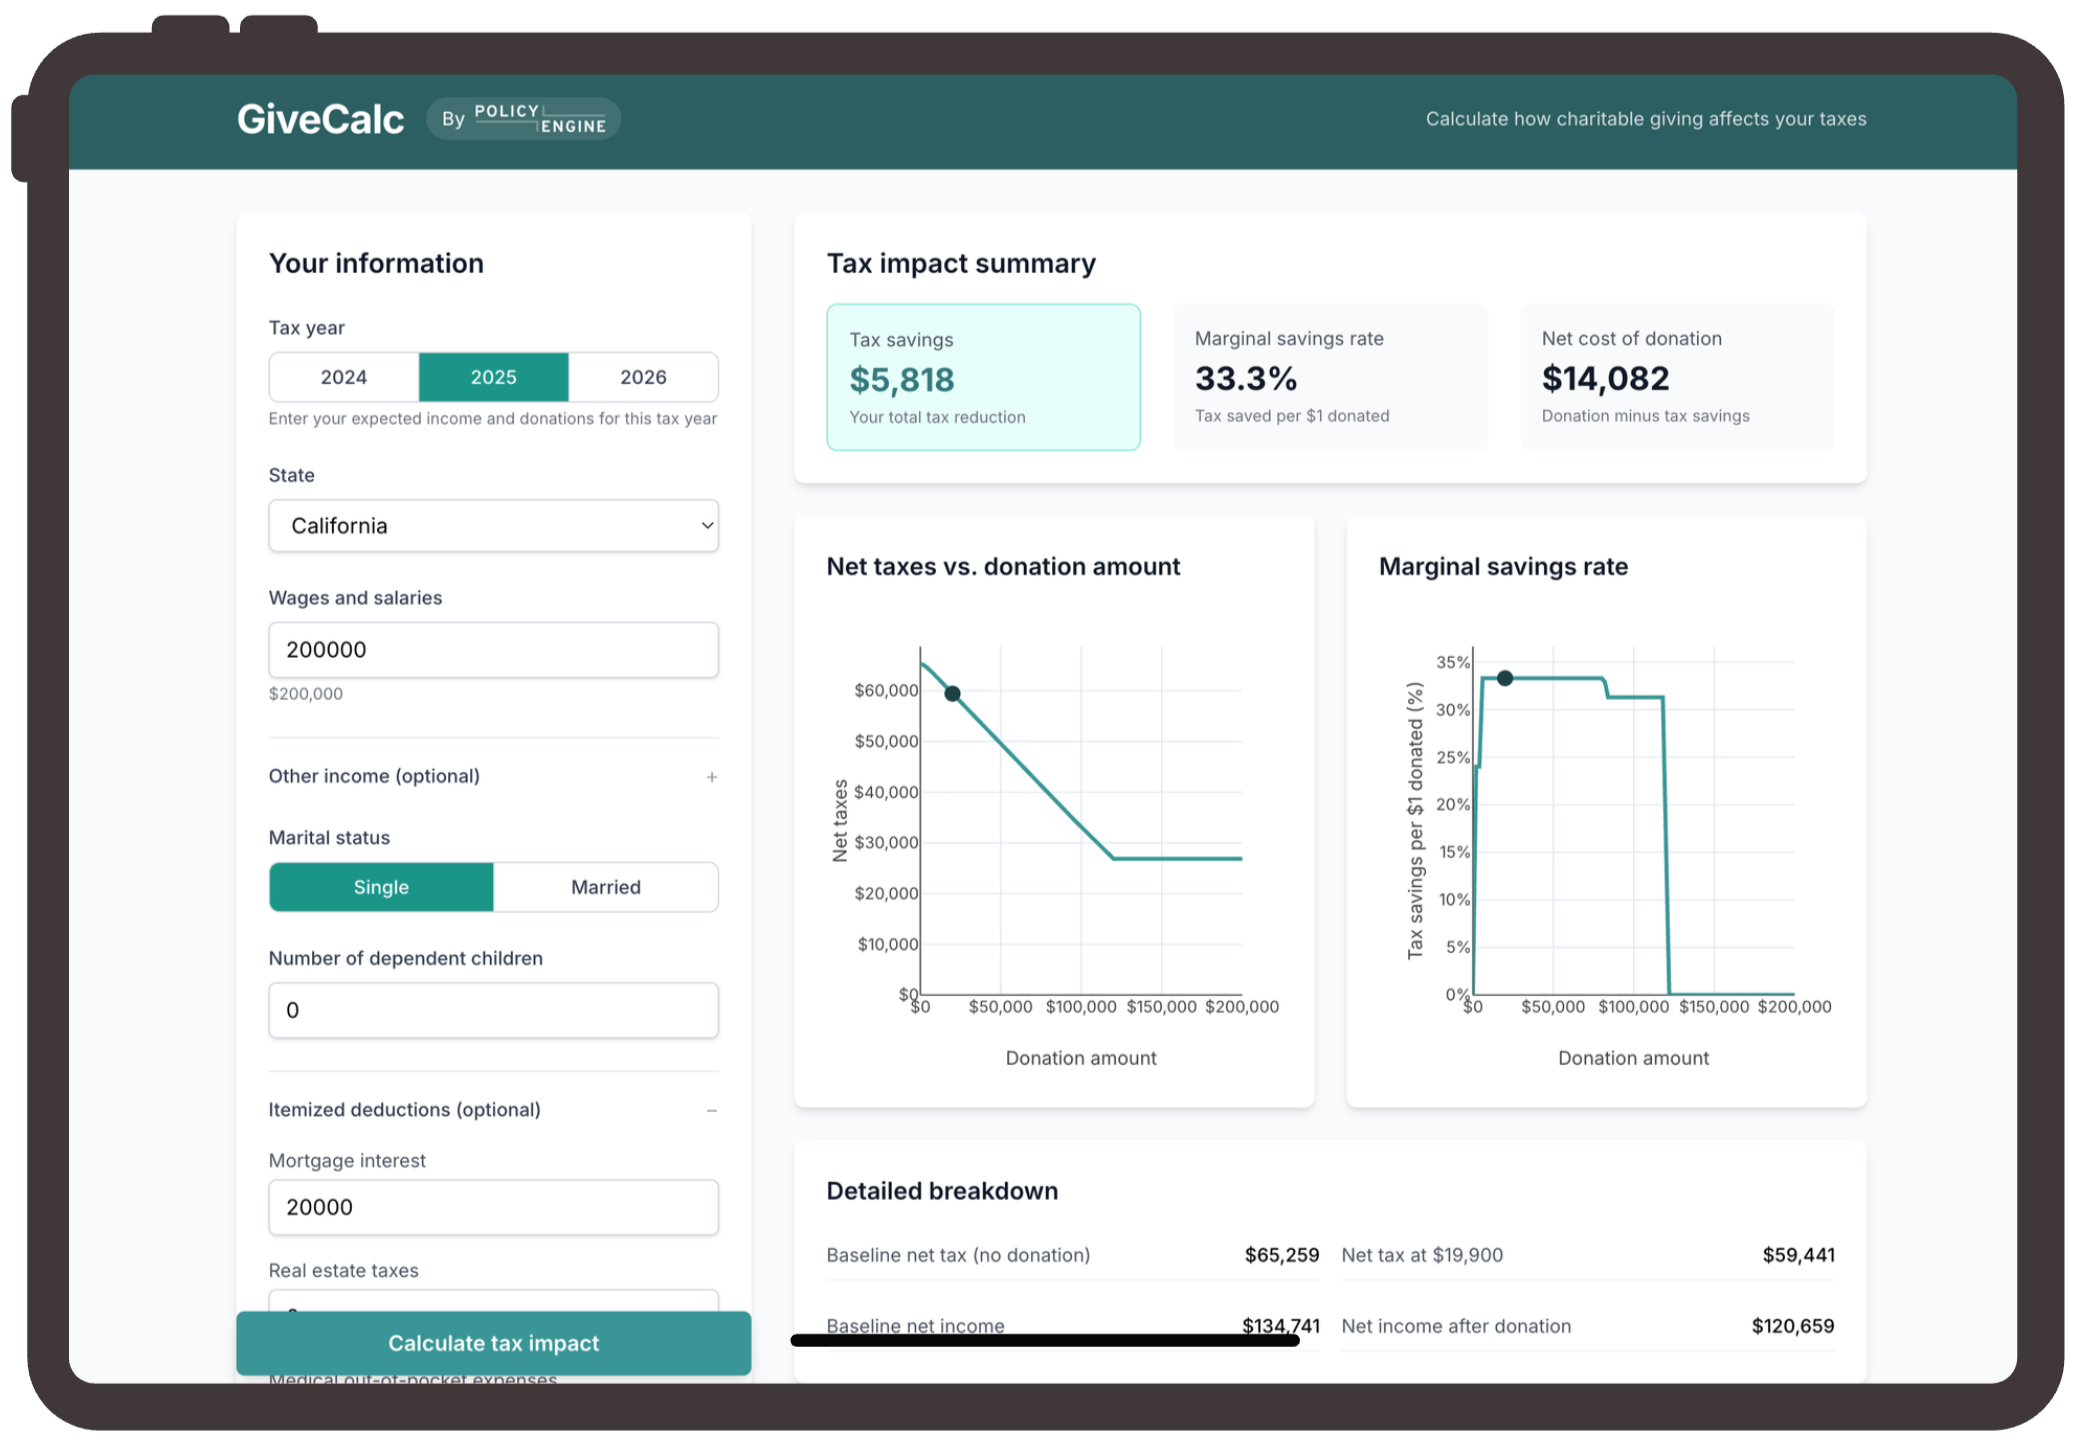
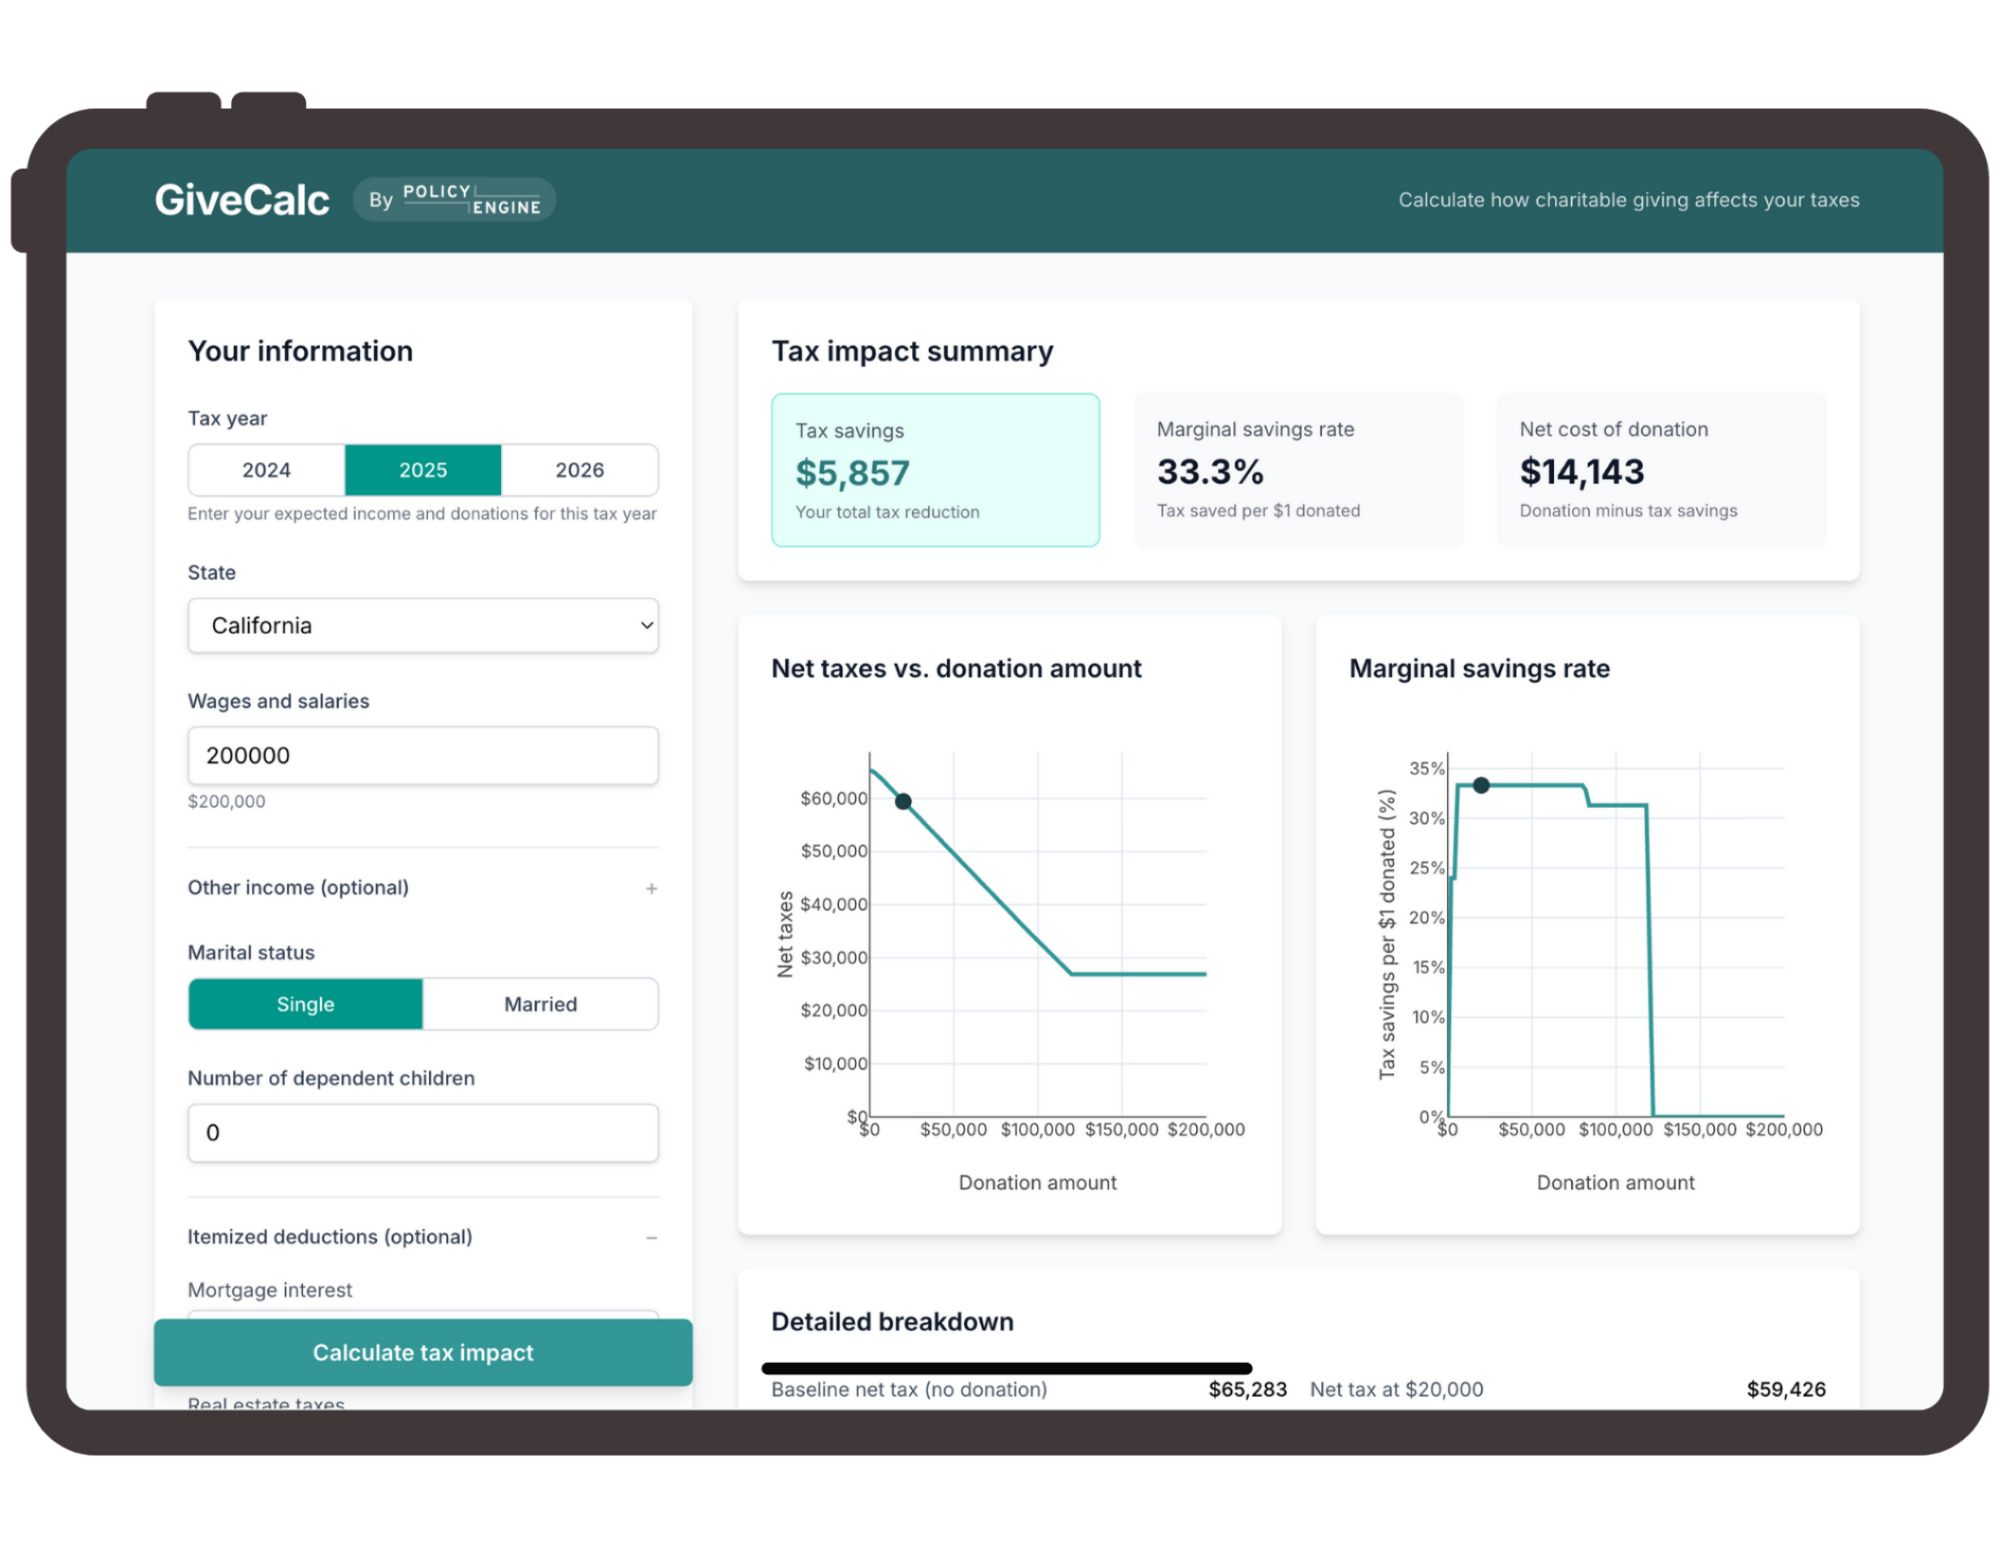
Update US GiveCalc screenshot and text to match $20k donation example
- Fix donation amount: $19,900 → $20,000
- Fix tax savings: $5,818 → $5,857
- Fix net cost: $14,082 → $14,143
- Replace screenshot with correct one showing $14,143

🤖 Generated with [Claude Code](https://claude.com/claude-code)

diff --git a/app/src/data/posts/articles/giving-tuesday-2025.md b/app/src/data/posts/articles/giving-tuesday-2025.md
@@ -20,7 +20,7 @@ GiveCalc uses PolicyEngine's microsimulation model to compute your taxes with an
 2. **Marginal giving discount**: The tax savings per additional dollar donated
 3. **Target donation finder**: The donation required to achieve a specific net income reduction
 
-For example, a single California filer earning $200,000 with $20,000 in mortgage interest saves $5,818 in taxes on a $19,900 donation — a 33% marginal savings rate that makes their net cost $14,082.
+For example, a single California filer earning $200,000 with $20,000 in mortgage interest saves $5,857 in taxes on a $20,000 donation — a 33% marginal savings rate that makes their net cost $14,143.
 
 ![GiveCalc screenshot showing tax savings calculation](/assets/posts/giving-tuesday-2025/screenshot.png)
 
